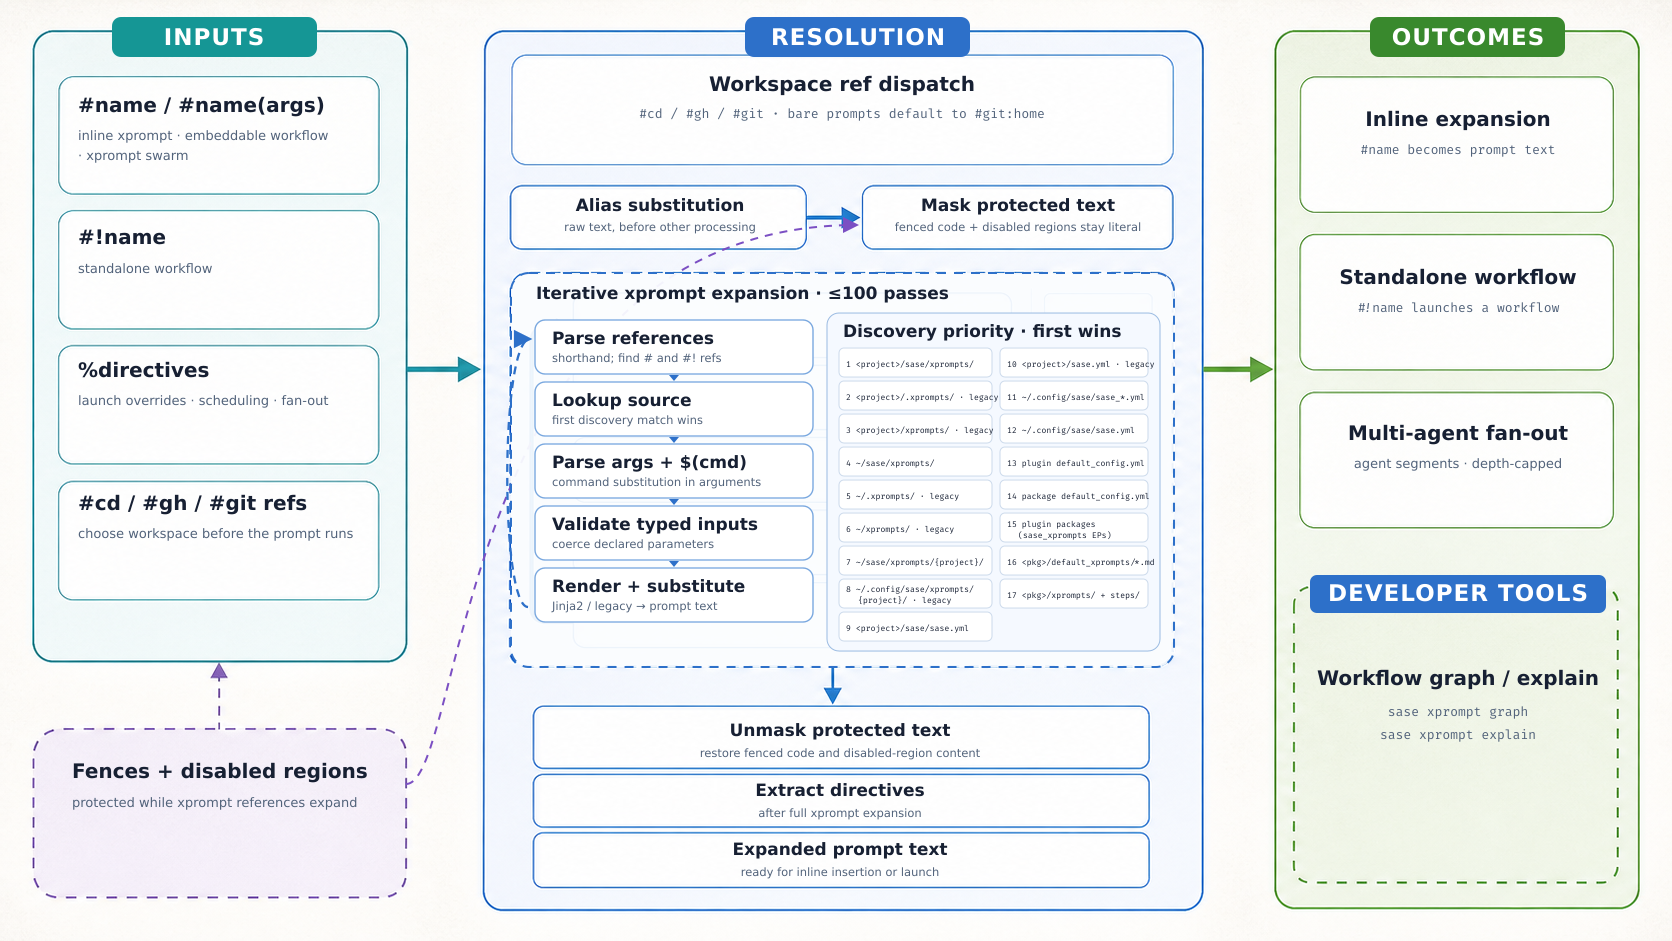
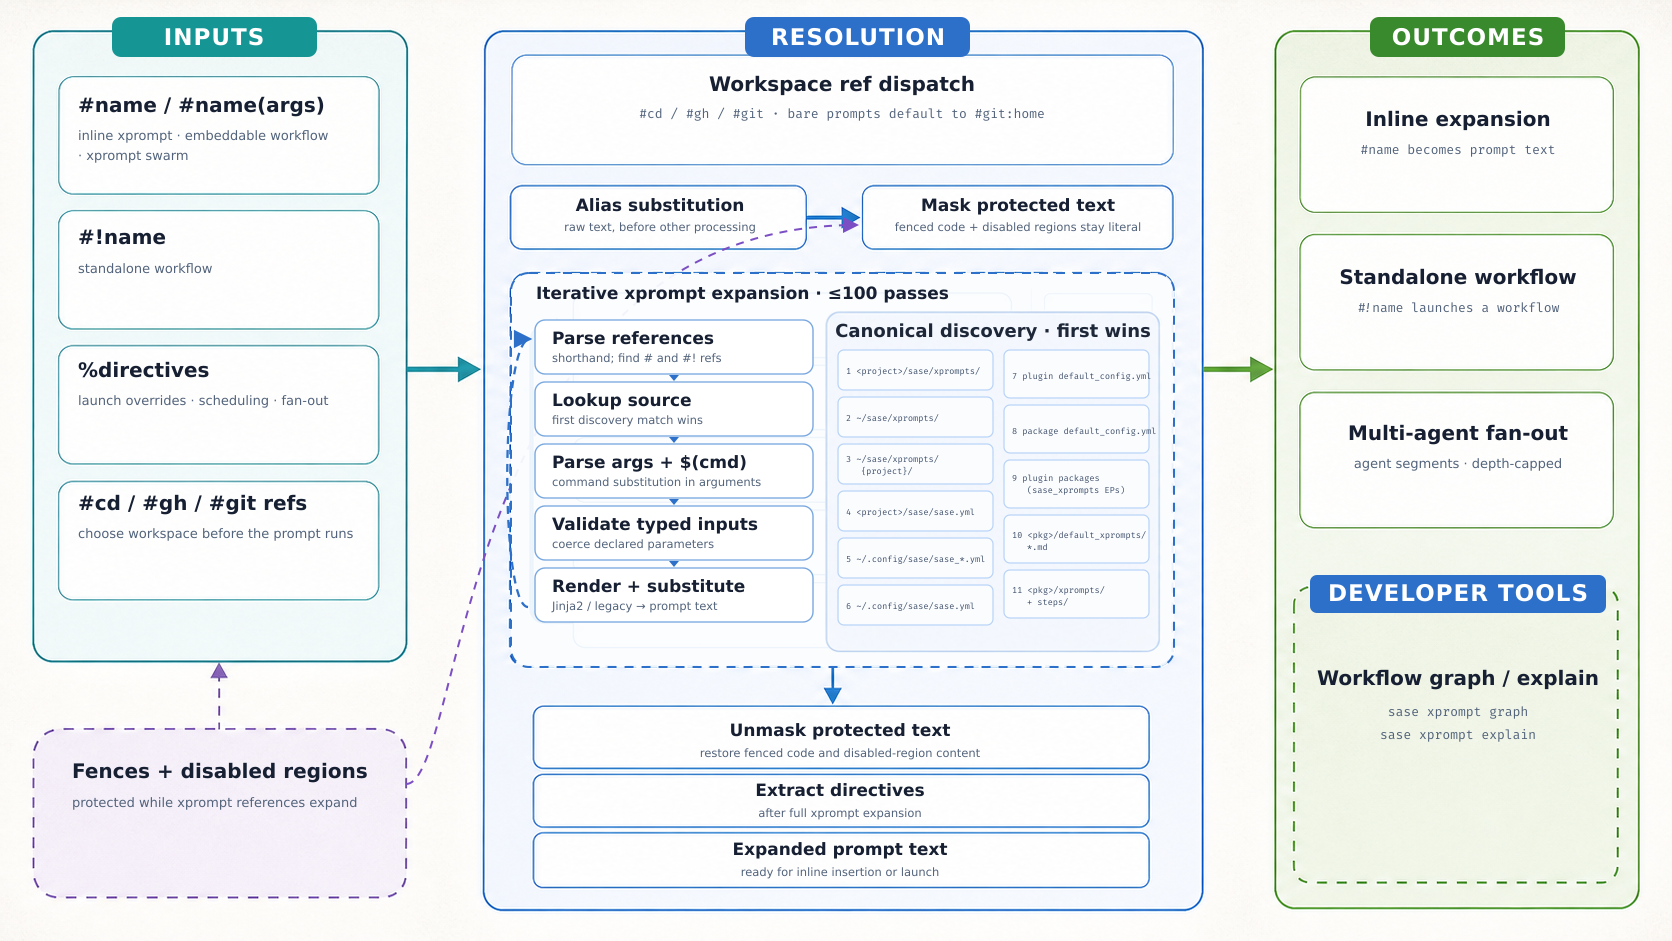
docs: remove legacy paths from xprompt infographic
SASE_AGENT=sase-6d.8.f0
SASE_MACHINE=athena

Changed region(s): [[0.4976, 0.339, 0.6842, 0.678]]

diff --git a/docs/images/xprompt-resolution-infographic.prompt.md b/docs/images/xprompt-resolution-infographic.prompt.md
@@ -10,14 +10,14 @@ pdf: false
 - Insertion point: after the introductory use-case list and before the authoritative text pipeline.
 - Final asset path: `docs/images/xprompt-resolution-infographic.png`
 - Final size: 1672×941 PNG, sRGB.
-- Status: regenerated, deterministically labeled, reviewed, and embedded.
+- Status: regenerated, edited to remove legacy paths, deterministically labeled, reviewed, and embedded.
 
 ## Intended Alt Text
 
 SASE xprompt inputs flowing through workspace dispatch, first-wins discovery, iterative expansion, and directive
 extraction into runtime outcomes.
 
-## Final GPT Image Prompt
+## Initial GPT Image Prompt
 
 The built-in GPT Image tool generated a completely text-free structural base. All visible labels in the committed PNG
 were added locally afterward.
@@ -32,15 +32,35 @@ Style/medium: flat vector-like technical architecture illustration rendered as a
 Constraints: absolutely no readable text, pseudo-text, glyphs, letters, numerals, logos, watermarks, terminal screenshots, code snippets, fake UI lines, or decorative icons resembling letters. Preserve wide blank label zones. Keep arrows unambiguous and fully within canvas. No cropping.
 ```
 
+## Legacy-Path Removal Edit
+
+The built-in GPT Image tool then cleared the discovery inset so its legacy rows could be removed without regenerating
+the surrounding infographic. Only the edited inset was composited back into the original canvas; its replacement title,
+cards, and canonical path labels were added locally.
+
+```text
+Use case: precise-object-edit
+Asset type: technical documentation infographic base edit
+Input image: Image 1 is the edit target.
+Primary request: Remove all content inside the small rounded rectangle titled “Discovery priority · first wins” in the center-right of the blue dashed iterative-expansion group. Clear its title, all numbered mini-cards, and every path label. Replace that inset region with a single clean blank very-light-blue rounded rectangle matching the same footprint, border radius, thin pale-blue outline, and subtle paper texture. Keep the surrounding dashed loop, the five processing rows on the left, all arrows, every other panel, and every other visible label exactly unchanged.
+Constraints: Change only the discovery inset. No new text, numbers, glyphs, icons, lines, cards, or pseudo-text inside the cleared inset. Do not crop, resize, recolor, restyle, or alter any other part of the image. Preserve the full 1672×941 landscape composition.
+```
+
 ## Deterministic Post-Processing Record
 
-The selected 1672×941 base was kept at full opacity. A transparent SVG overlay supplied the exact labels, backing
-panels, loop arrow, stage arrows, and protected-content connection. ImageMagick 7 rendered the overlay using DejaVu Sans
-for prose and Fira Code for paths and commands, then composited and stripped the final PNG:
+The initial 1672×941 base was kept at full opacity. The cleared GPT Image output was normalized to the final canvas
+size, then a rounded mask limited it to the discovery inset. A transparent SVG overlay supplied the replacement
+canonical discovery panel and its exact labels. ImageMagick 7 rendered the overlay using DejaVu Sans for prose and Fira
+Code for paths and commands, then composited and stripped the final PNG:
 
 ```bash
+magick "$EDIT_PNG" -resize '1672x941!' "$EDIT_RESIZED_PNG"
+magick -size 1672x941 xc:black -fill white \
+  -draw 'roundrectangle 825,310 1161,652 14,14' "$EDIT_MASK_PNG"
+magick "$ORIGINAL_PNG" "$EDIT_RESIZED_PNG" "$EDIT_MASK_PNG" \
+  -composite "$UNLABELED_PNG"
 magick -background none "$LABELS_SVG" "$LABELS_PNG"
-magick "$BASE_PNG" "$LABELS_PNG" -compose over -composite \
+magick "$UNLABELED_PNG" "$LABELS_PNG" -compose over -composite \
   -strip -colorspace sRGB docs/images/xprompt-resolution-infographic.png
 ```
 
@@ -51,8 +71,8 @@ The deterministic label groups are:
 - Launch setup: workspace dispatch occurs before xprompt expansion; bare prompts default to `#git:home`.
 - Expansion: alias substitution → protected-text masking → iterative parse, lookup, argument/`$(cmd)` processing,
   typed-input validation, and Jinja2/legacy rendering → unmask → directive extraction → expanded prompt text.
-- Discovery: all 17 rows from `docs/xprompt.md`, in first-wins order, with canonical project/home paths preceding their
-  corresponding legacy compatibility paths and package/plugin sources kept distinct.
+- Discovery: the 11 canonical project, home, config, plugin, and package sources from `docs/xprompt.md`, retaining their
+  relative first-wins order while omitting all legacy compatibility paths.
 - Outcomes: inline expansion, standalone workflow launch, depth-capped multi-agent fan-out, and a visually separate
   developer-tools card for `sase xprompt graph` / `sase xprompt explain`.
 
@@ -62,5 +82,6 @@ The deterministic label groups are:
   pseudo-text.
 - The protected-content callout points to the mask stage, the iterative stages flow downward with a loop-back arrow, and
   developer tooling is visually separate from runtime outcomes.
-- Every technical label was compared with the launch/expansion pipelines and discovery table in `docs/xprompt.md`.
[1 lines of base64/hex data omitted]
+- Every technical label was compared with the launch/expansion pipelines and canonical entries in the discovery table in
+  `docs/xprompt.md`.
[1 lines of base64/hex data omitted]

diff --git a/docs/images/xprompt-resolution-infographic.critique.md b/docs/images/xprompt-resolution-infographic.critique.md
@@ -9,8 +9,8 @@ pdf: false
 
 ## Outcome
 
-The regenerated infographic is accurate enough to embed in `docs/xprompt.md`. It preserves the useful three-zone inputs
-→ resolution → outcomes structure while replacing the stale technical content in the prior PNG.
+The revised infographic is accurate enough to embed in `docs/xprompt.md`. It preserves the useful three-zone inputs →
+resolution → outcomes structure while removing legacy compatibility paths from the discovery inset.
 
 ## Accuracy Review
 
@@ -24,10 +24,9 @@ The final labels match the authoritative launch and expansion model:
 5. Inline expansion, standalone workflows, and depth-capped multi-agent fan-out are runtime outcomes. Workflow graph and
    explain output are presented separately as developer tools.
 
-The discovery panel mirrors all 17 rows in the current `docs/xprompt.md` table. Canonical project and home directories
-precede their read-compatible legacy locations; canonical and legacy project config entries remain distinct; user
-overlays/base config, plugin/package defaults, plugin xprompt entry points, and both package-provided xprompt locations
-retain their documented order.
+The discovery panel now presents only the 11 canonical project, home, config, plugin, and package sources from the
+current `docs/xprompt.md` table. Their relative first-wins order is preserved. The six legacy directory and config
+fallback paths are intentionally absent.
 
 ## Visual Review
 
@@ -40,7 +39,7 @@ The 1672×941 PNG was inspected at full resolution for:
 - distinct runtime and developer-tool regions; and
 - absence of model-generated text, pseudo-text, logos, or watermarks.
 
-The 17-row discovery panel is intentionally the densest part of the asset. Its monospace labels remain readable at full
+The 11-row canonical discovery panel remains the densest part of the asset. Its monospace labels remain readable at full
 resolution, while the larger stage labels preserve the diagram's scan path at normal documentation width.
 
 ## Resolved Problems From The Previous Asset
@@ -48,8 +47,9 @@ resolution, while the larger stage labels preserve the diagram's scan path at no
 - Removed the obsolete keyword-trigger and dynamic-memory rows.
 - Put aliases before masking and moved directive extraction after full expansion.
 - Added the iterative expansion loop and the missing argument-time `$(cmd)` step.
-- Replaced the stale collapsed discovery stack with the canonical 17-row ordering.
+- Replaced the stale collapsed discovery stack with canonical source ordering.
 - Corrected `#name` / `#!name` semantics and changed fan-out from “one-level” to depth-capped.
 - Renamed the inline outcome and visually demoted graph/explain to developer tooling.
+- Removed all legacy compatibility paths from the discovery panel.
 
[2 lines of base64/hex data omitted]
